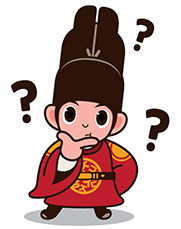
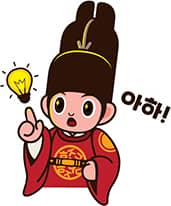
메인 세종엔 안내 아이콘 수정

diff --git a/public/styles/gbSin.css b/public/styles/gbSin.css
@@ -548,9 +548,9 @@
 .mainMenu .mainMenuList ul li.active a .deco { top: -1.9rem; z-index: 1; opacity: 1;}
 .mainMenu .mainMenuList ul li.active a .icon { display: none;}
 .chatbot { display: flex; justify-content: flex-end; position: fixed; bottom: calc(10rem + env(safe-area-inset-bottom)); z-index: 53; width: 100%; padding-right: 2rem; transition: bottom .3s ease-in-out;}
-.chatbot .chatbotBtn { display: flex; align-items: center; justify-content: flex-end; width: 26.5rem; height: 5.4rem; padding: 0 1rem 0 2rem; background-color: #fff; box-shadow: 0 0.3rem 1rem rgba(0 0 0 / 15%); border-radius: 2.7rem; animation: chatbotAni 0.5s forwards ease; transition: all .3s ease-in-out;}
+.chatbot .chatbotBtn { display: flex; align-items: center; justify-content: flex-end; width: 28.5rem; height: 5.4rem; padding: 0 1rem 0 2rem; background-color: #fff; box-shadow: 0 0.3rem 1rem rgba(0 0 0 / 15%); border-radius: 2.7rem; animation: chatbotAni 0.5s forwards ease; transition: all .3s ease-in-out;}
 .chatbot .chatbotBtn b { display: flex; align-items: center; flex: 1; overflow: hidden; white-space: nowrap; width: 100%; height: 5.4rem; animation: chatbotAniText 0.5s forwards ease; transition: all .3s ease-in-out; opacity: 1;}
-.chatbot .chatbotBtn .chatbotIcon { display: inline-block; width: 3.3rem; height: 4.2rem; vertical-align: middle; background: url(../image/common/sub010301_character23.jpg) no-repeat center/cover;}
+.chatbot .chatbotBtn .chatbotIcon { display: inline-block; width: 3.3rem; height: 4rem; vertical-align: middle; background: url(../image/common/sub010301_character23.jpg) no-repeat center/cover;}
 .chatbot.bottom { bottom: calc(9rem + env(safe-area-inset-bottom));}
 .chatbot.second3 .chatbotBtn { animation-delay: 3.2s;}
 .chatbot.second3 .chatbotBtn b { animation-delay: 3s;}

diff --git a/html/home/UI-SJN-01-001U.html b/html/home/UI-SJN-01-001U.html
@@ -1053,7 +1053,7 @@
 					</div>
 
 					<div class="chatbot second3"> <!-- second3 ~ second10 : 3초 부터 10초 까지 있습니다. -->
-						<button type="button" class="chatbotBtn"><b>안녕하세요, 세종쳇봇입니다!</b><i class="chatbotIcon"></i></button>
+						<button type="button" class="chatbotBtn"><b>세종엔앱에 대한 의견을 듣습니다!</b><i class="chatbotIcon"></i></button>
 					</div>
 			
 			
